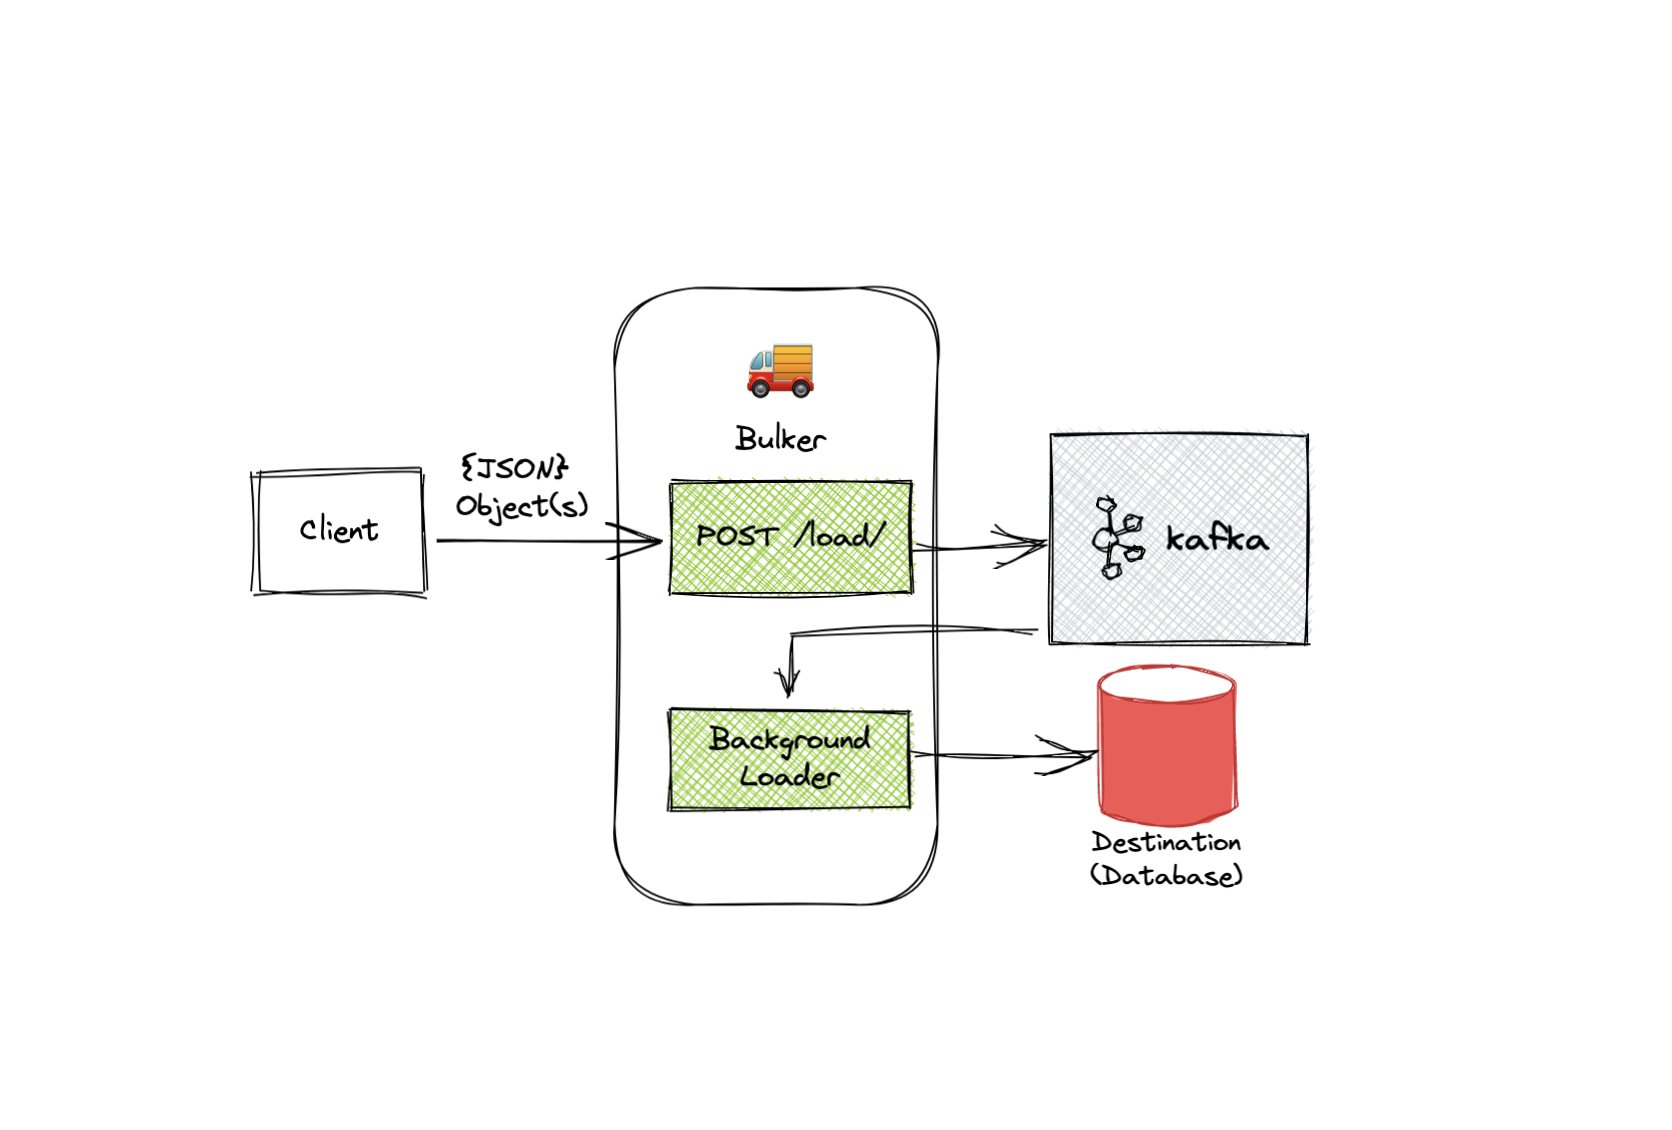
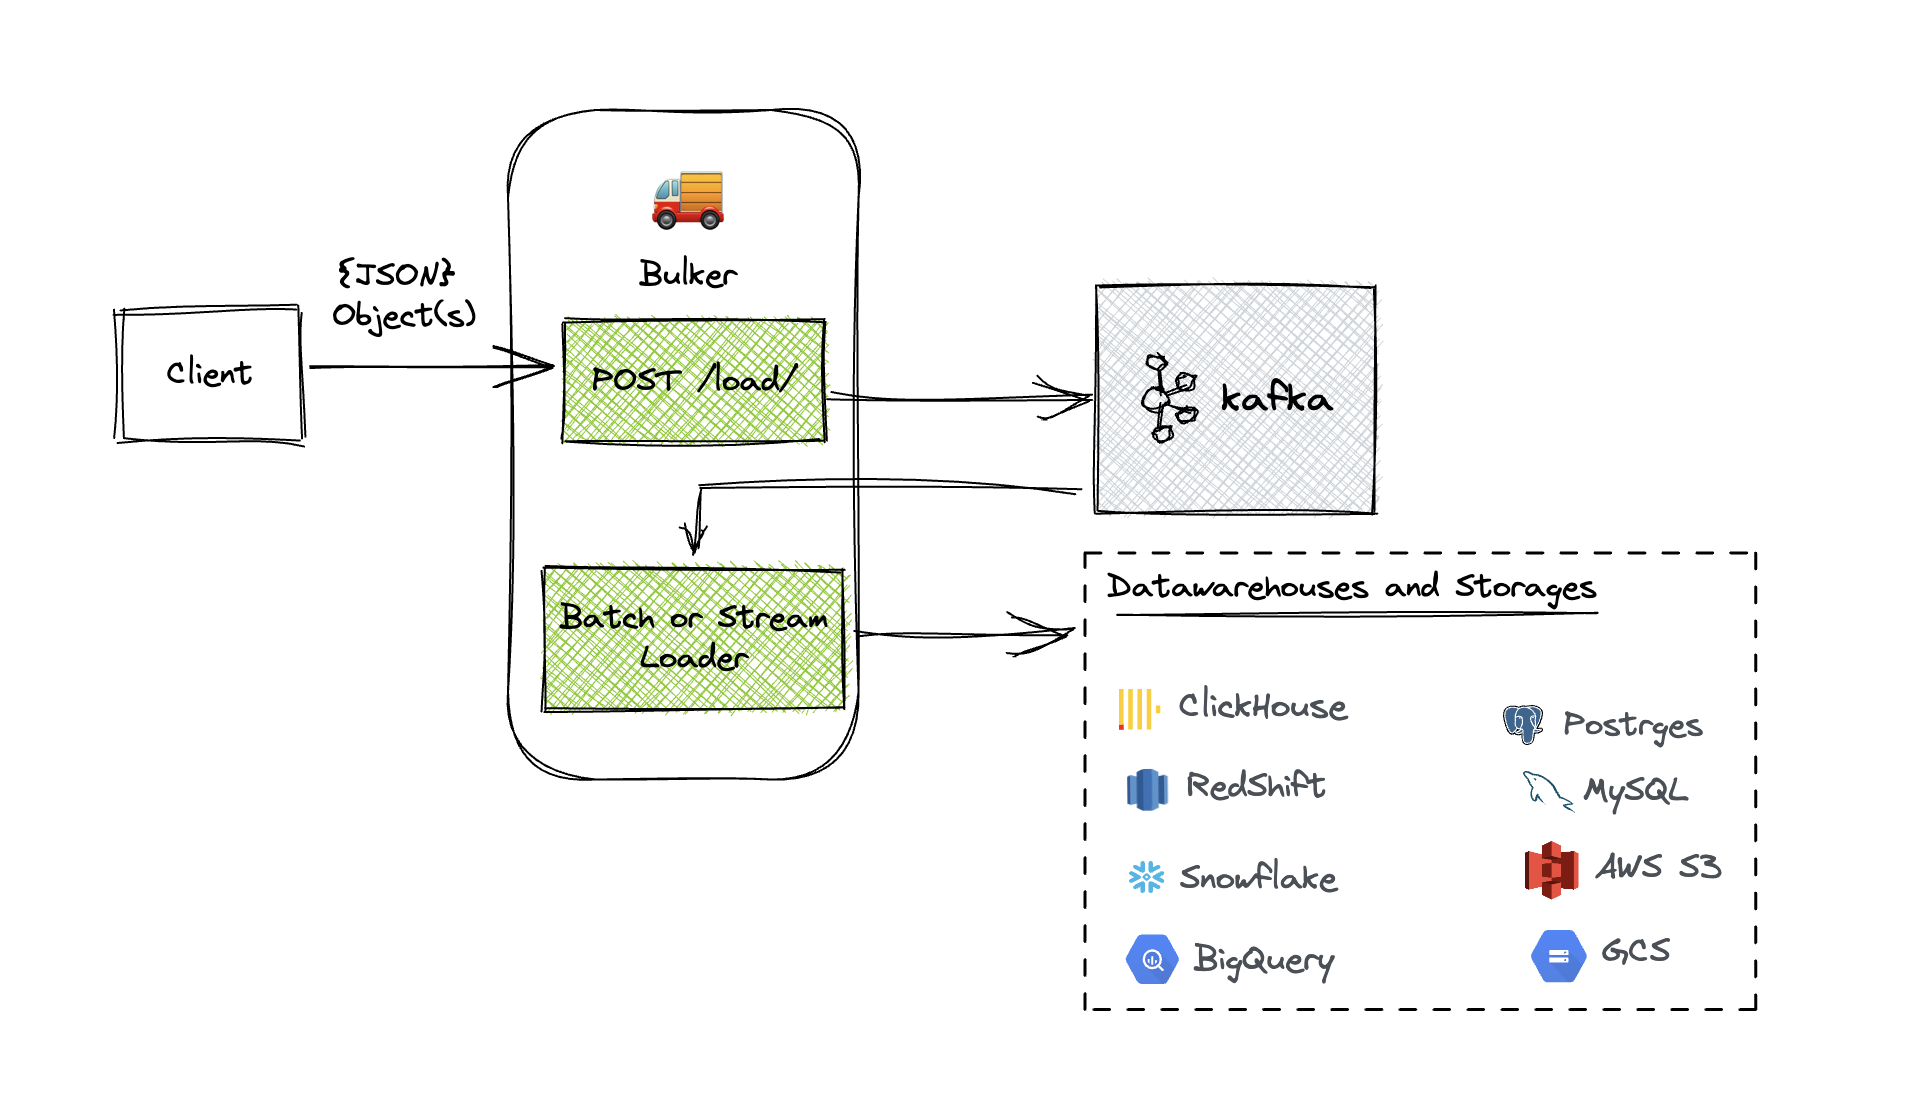
docs: updated picture on a main page

diff --git a/bulker/README.md b/bulker/README.md
@@ -1,11 +1,11 @@
 # 🚚 Bulker
 
-Bulker is a HTTP server that simplifies streaming large amounts of data into databases. It is designed to be 
+Bulker is an HTTP server that simplifies streaming large amounts of data into databases. It is designed to be 
 used as a part of ETL pipelines. 
 
 Bulker is a 💜 of [Jitsu](https://github.com/jitsucom/jitsu), an open-source data integration platform.
 
-HTTP-server uses Kafka as internal transport
+HTTP-server uses Kafka as a transport
 
 <p align="center">
 <img src="./.docs/assets/bulker-summary.excalidraw.png" width="600" />